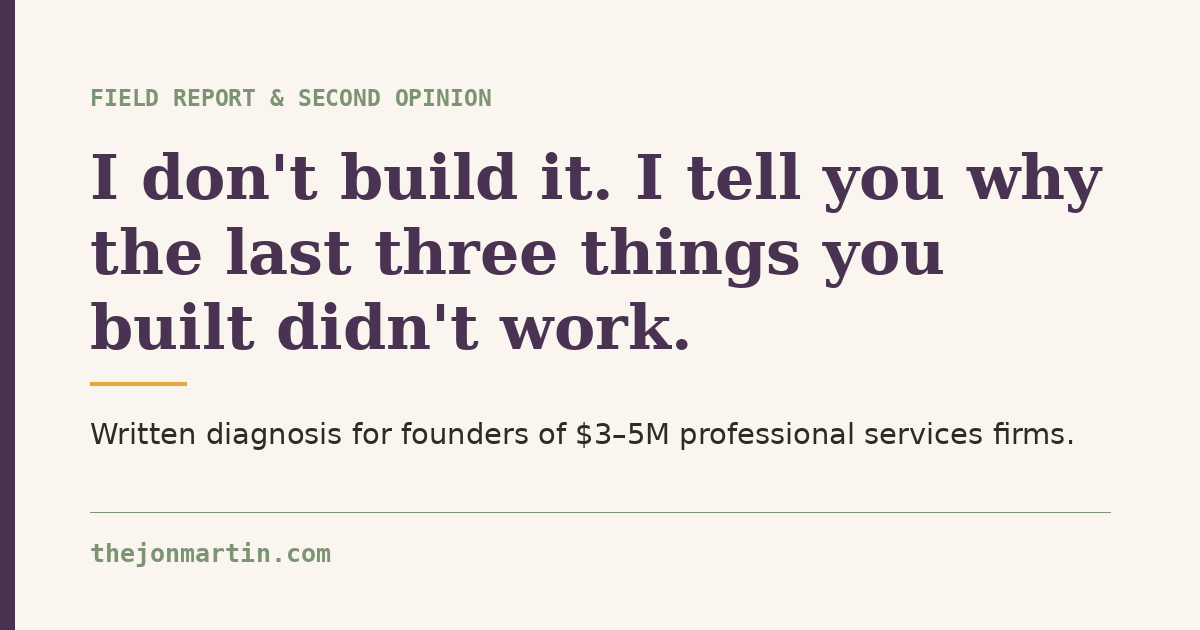
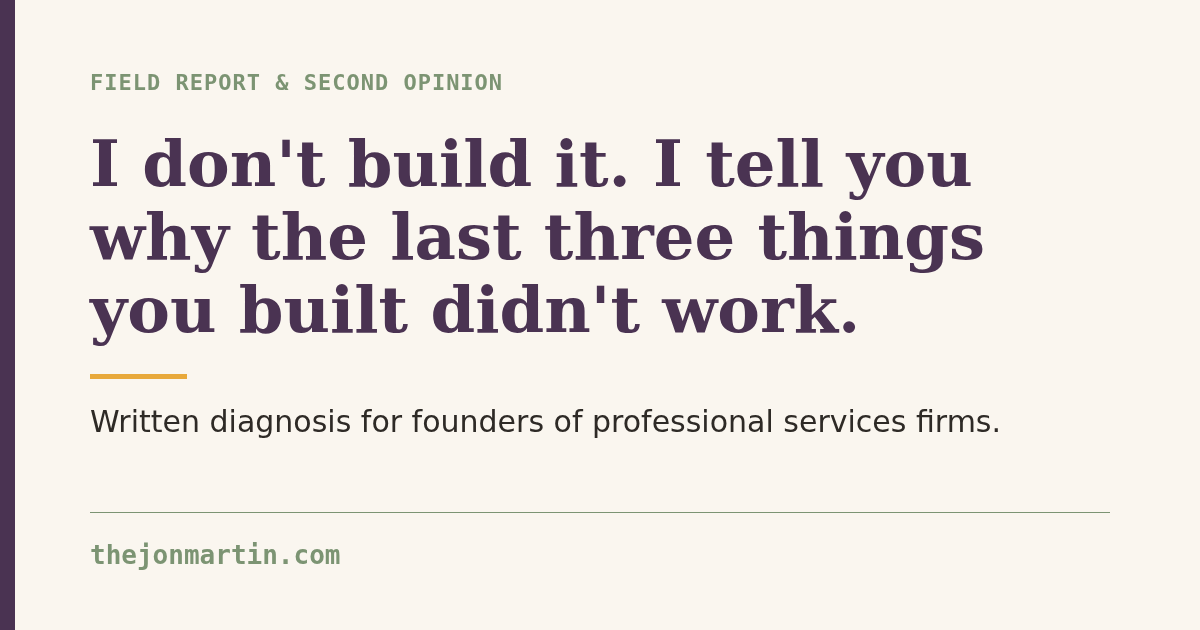
PR B step C: /og.png drops the revenue figure (scripts/site-og.py); re-render W9/W11 tool cards

Changed region(s): [[0.0617, 0.2111, 0.925, 0.7238], [0.0617, 0.1206, 0.4317, 0.181], [0.0925, 0.8444, 0.2775, 0.9048]]

diff --git a/scripts/site-og.py b/scripts/site-og.py
@@ -1,0 +1,40 @@
+"""Regenerate public/og.png (1200x630) — the sitewide default social card.
+
+Replaces the old untracked raster that had no source script. The content is
+hard-coded (it is the one sitewide card, not a per-page render). The revenue
+figure that used to sit in the subline was removed on purpose (Jon, Oct 28).
+
+Matches the layout of scripts/tool-og.py: cream ground, plum left bar, sage
+label, plum serif headline, mustard rule, sage footer. Run from the repo root:
+  python3 scripts/site-og.py
+Requires: playwright (python) with Chromium.
+"""
+import html
+from playwright.sync_api import sync_playwright
+
+LABEL = 'FIELD REPORT & SECOND OPINION'
+HEADLINE = "I don't build it. I tell you why the last three things you built didn't work."
+SUBLINE = 'Written diagnosis for founders of professional services firms.'
+FOOTER = 'thejonmartin.com'
+
+PAGE = """<html><body style="margin:0;width:1200px;height:630px;background:#FAF6EF;position:relative;overflow:hidden">
+<div style="position:absolute;left:0;top:0;bottom:0;width:15px;background:#4A3352"></div>
+<div style="position:absolute;left:90px;right:90px;top:70px;font:700 22px 'DejaVu Sans Mono',monospace;color:#7C9473;letter-spacing:1px;text-transform:uppercase">{label}</div>
+<div style="position:absolute;left:90px;right:90px;top:128px;font:700 64px/1.14 'DejaVu Serif',serif;color:#4A3352">{headline}</div>
+<div style="position:absolute;left:90px;width:97px;height:5px;background:#E8A93B;top:{ruley}px"></div>
+<div style="position:absolute;left:90px;right:90px;top:{suby}px;font:400 30px 'DejaVu Sans',sans-serif;color:#2E2A26">{subline}</div>
+<div style="position:absolute;left:90px;right:90px;top:512px;border-top:1px solid #7C9473"></div>
+<div style="position:absolute;left:90px;top:540px;font:700 26px 'DejaVu Sans Mono',monospace;color:#7C9473">{footer}</div>
+</body></html>"""
+
+with sync_playwright() as p:
+    b = p.chromium.launch()
+    pg = b.new_page(viewport={'width': 1200, 'height': 630})
+    args = dict(label=html.escape(LABEL), headline=html.escape(HEADLINE), subline=html.escape(SUBLINE), footer=html.escape(FOOTER))
+    pg.set_content(PAGE.format(ruley=0, suby=0, **args))
+    h = pg.evaluate("document.querySelectorAll('div')[2].getBoundingClientRect().bottom")
+    ruley = int(h) + 28
+    pg.set_content(PAGE.format(ruley=ruley, suby=ruley + 30, **args))
+    pg.screenshot(path='public/og.png')
+    print('og.png', 'rule at', ruley)
+    b.close()

diff --git a/scripts/tool-og.py b/scripts/tool-og.py
@@ -1,10 +1,11 @@
 """Regenerate public/og/tools/<slug>-v2.png (1200x630) from src/lib/tools.ts.
 
 Matches the layout of public/og.png: cream ground, plum left bar, sage label,
-plum serif headline, mustard rule. Run from the repo root:  python3 scripts/tool-og.py
+plum serif headline, mustard rule. Run from the repo root:  python3 scripts/tool-og.py [slug ...]
+With no args renders every tool; pass one or more slugs to render only those.
 Requires: playwright (python) with Chromium.
 """
-import html, re
+import html, re, sys
 from pathlib import Path
 from playwright.sync_api import sync_playwright
 
@@ -15,6 +16,10 @@ for b in blocks:
     slug = b.split("'", 1)[0]
     g = lambda k: re.search(rf"\n\t\t{k}: ([\'\"`])(.*?)(?<!\\)\1,\n", b).group(2).replace("\\'", "'")
     tools.append((slug, g('name'), g('category'), g('h1')))
+
+only = set(sys.argv[1:])
+if only:
+    tools = [t for t in tools if t[0] in only]
 
 PAGE = """<html><body style="margin:0;width:1200px;height:630px;background:#FAF6EF;position:relative;overflow:hidden">
 <div style="position:absolute;left:0;top:0;bottom:0;width:15px;background:#4A3352"></div>
